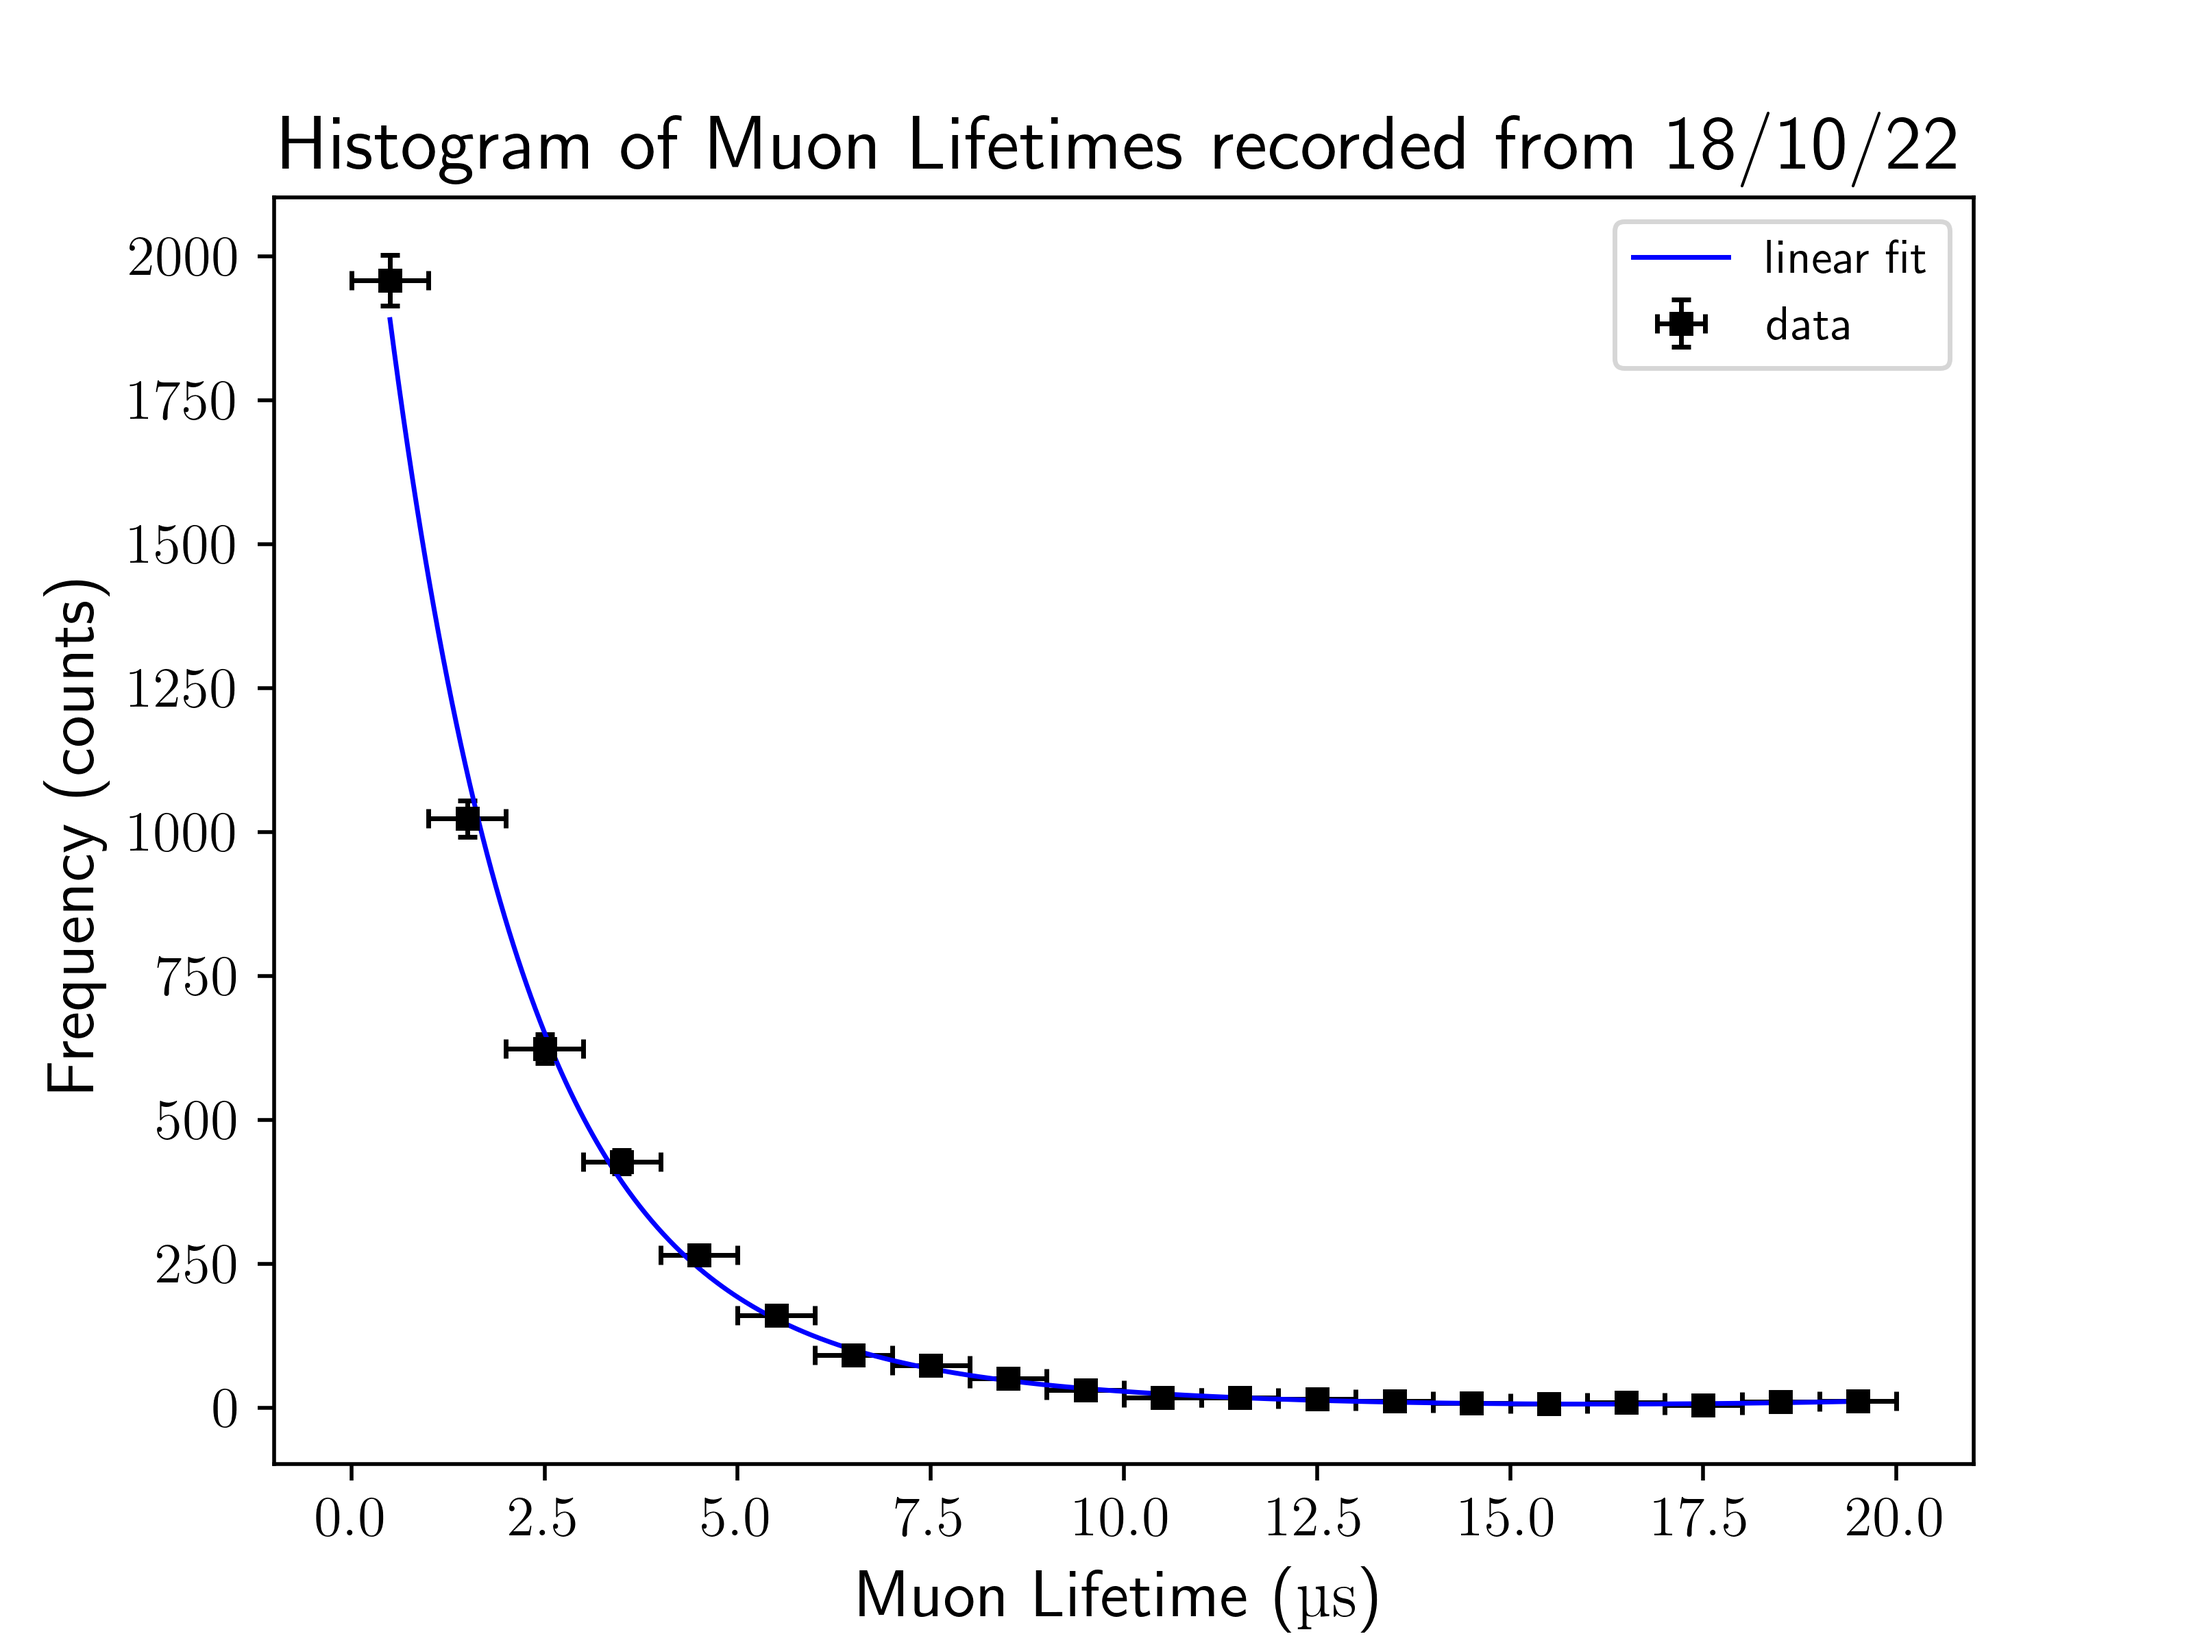
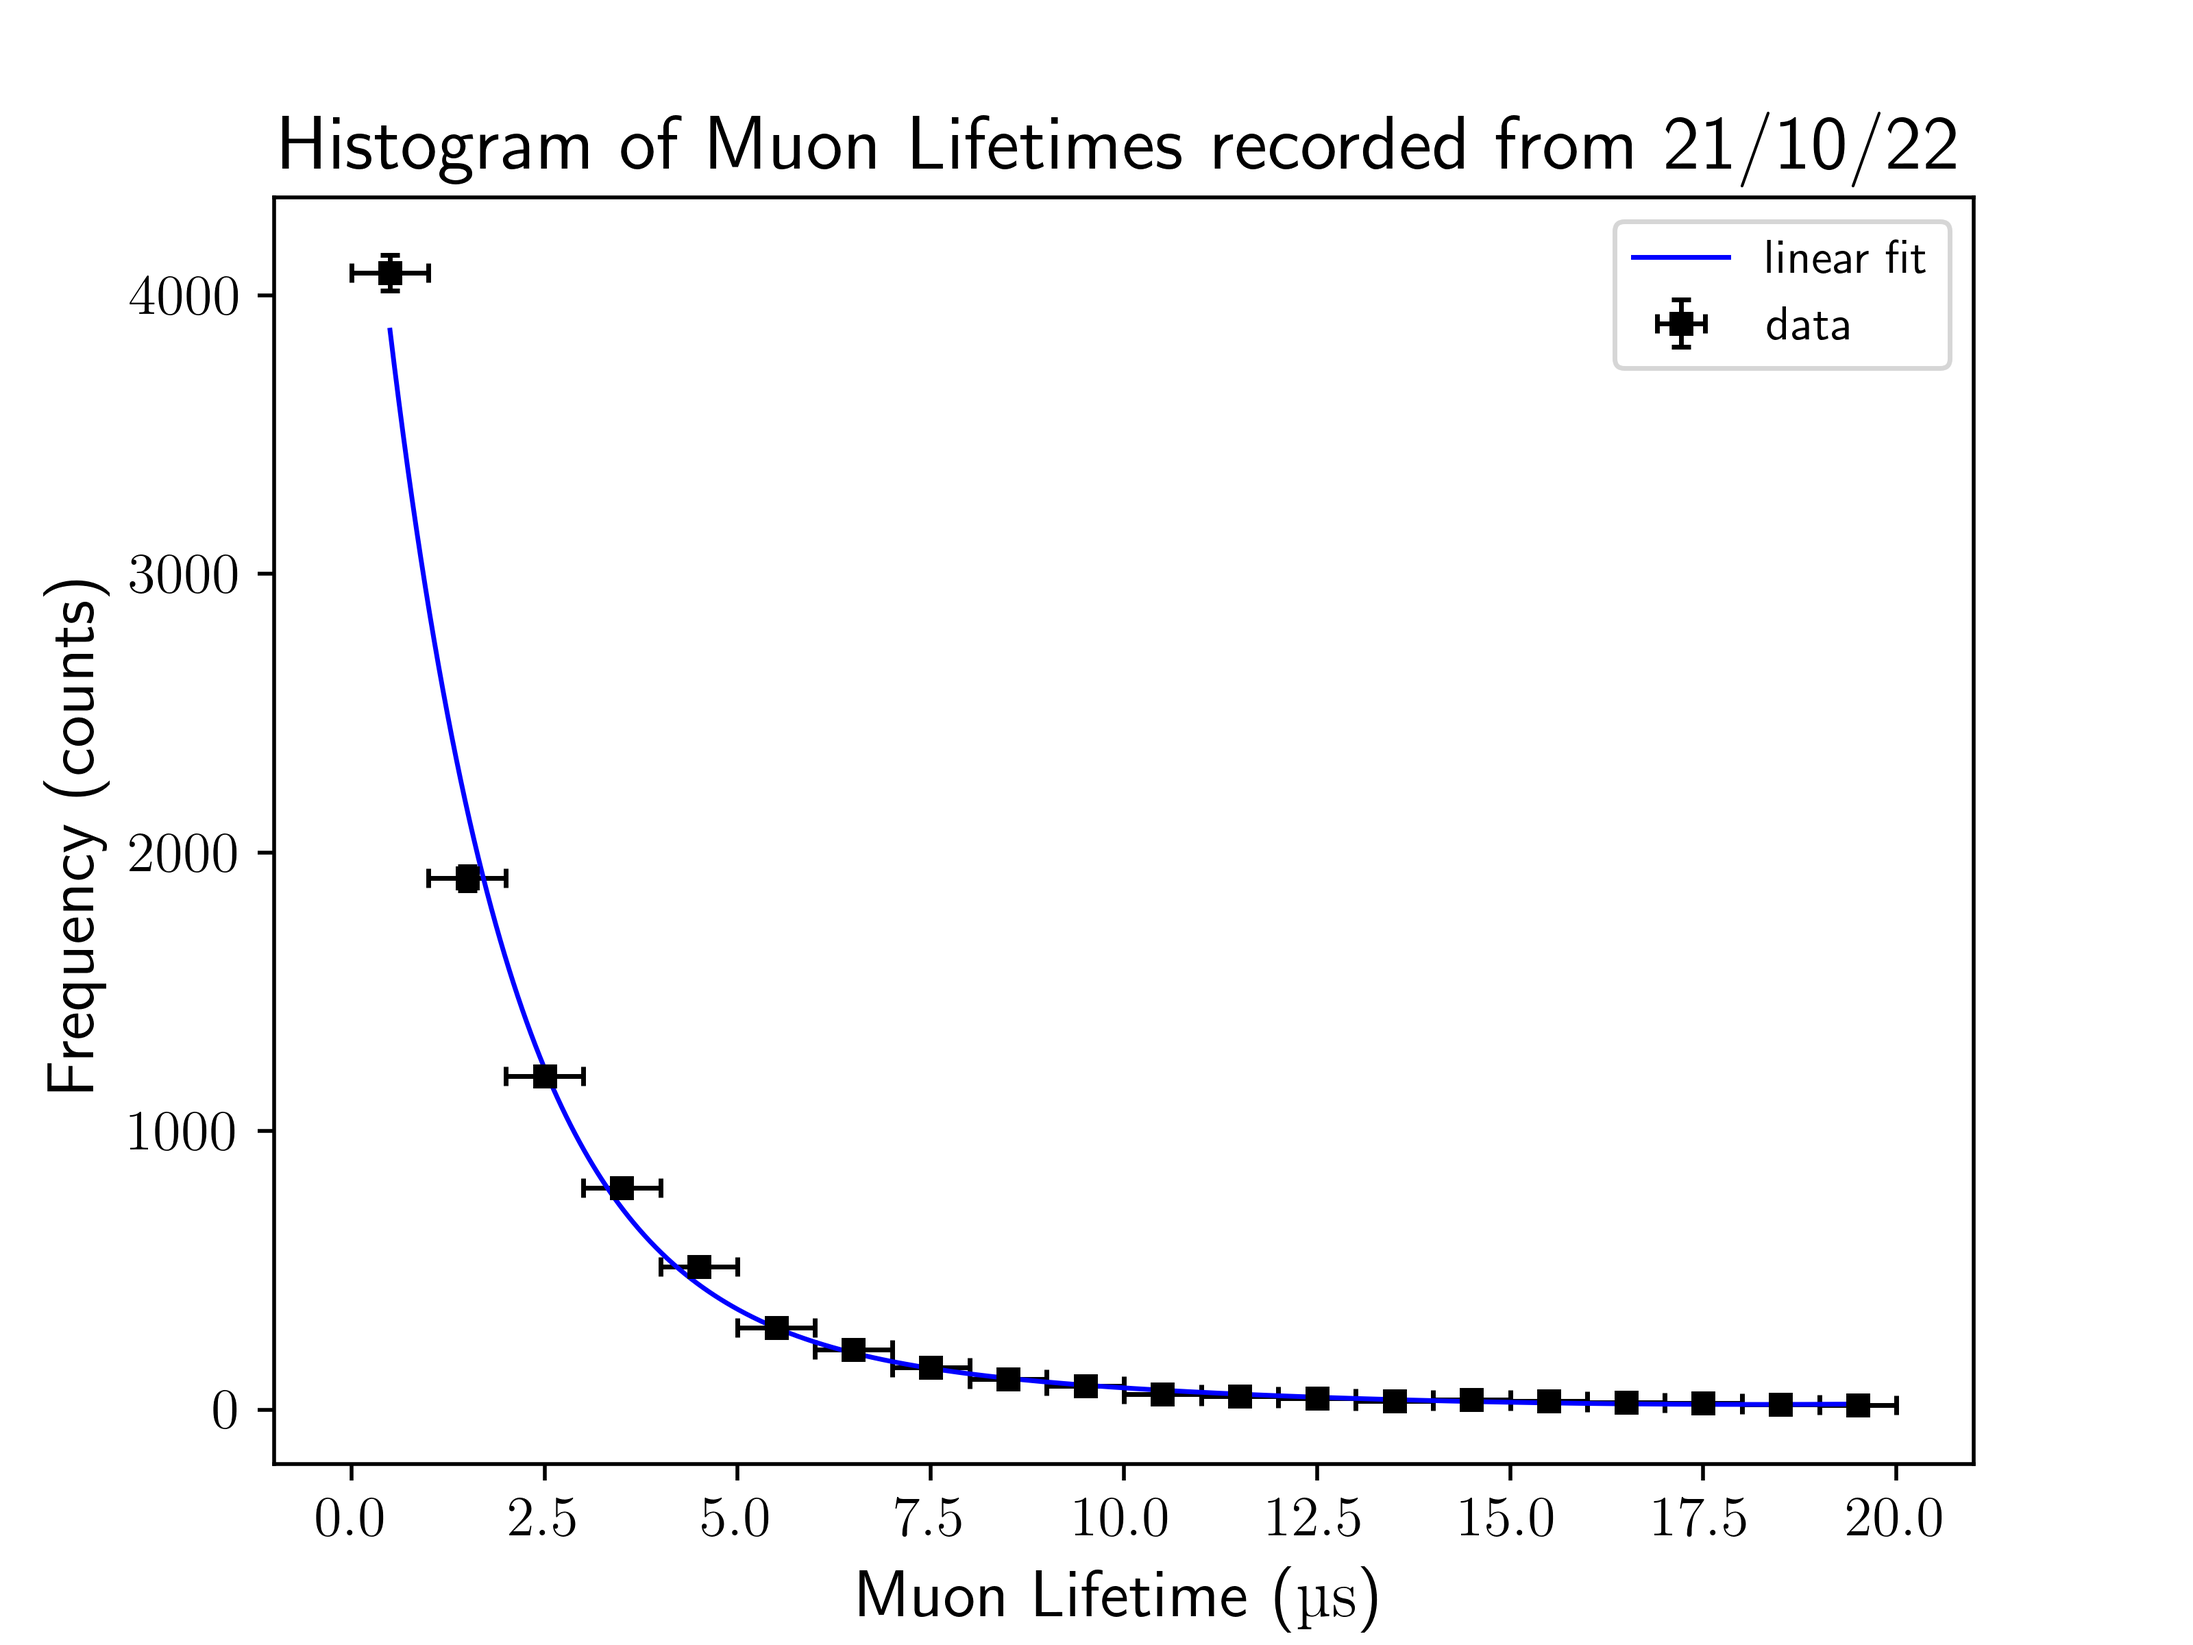
On branch sandbox Changes to be committed: 	modified:   21-10-22_26-10-22_largestDataSetInterrupt(good).txt 	modified:   N3_Code.py 	modified:   figure_sandbox.png
Fixed empty line problem AGAIN

diff --git a/N3_Code.py b/N3_Code.py
@@ -165,7 +165,7 @@ plt.plot(x_fit, y_fit, "-", color="blue", linewidth=1, label="linear fit")
 plt.xlabel(r"Muon Lifetime (\unit{\micro\second})", fontsize=14)
 plt.ylabel("Frequency (counts)", fontsize=14)
 plt.title(
-    "Histogram of Muon Lifetimes recorded from 18/10/22", fontsize=16, loc="center"
+    "Histogram of Muon Lifetimes recorded from 21/10/22", fontsize=16, loc="center"
 )
 # plt.minorticks_on()
 # plt.text(7.5,95,"Here is some text on the graph",color='red',fontsize=10,weight="normal",fontstyle="italic")
